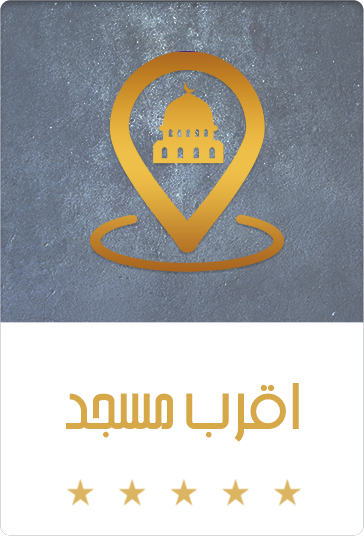
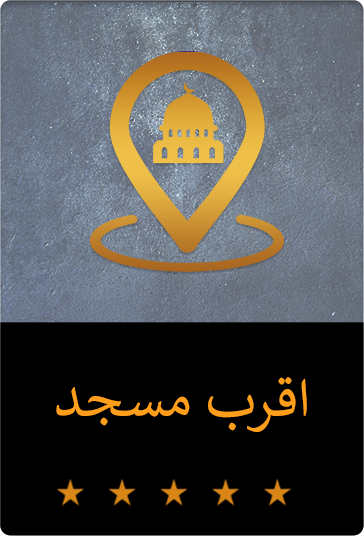
terms

diff --git a/front/css/style_en_mbc.css b/front/css/style_en_mbc.css
@@ -87,6 +87,8 @@ select:active {
   /* End Error Page */
   /* Start Profile Page */
   /* End Profile Page */
+  /* Start Terms Page */
+  /* End Terms Page */
 }
 .main_container .header {
   position: unset;
@@ -625,7 +627,7 @@ select:active {
 }
 .main_container .inner_page .poster .poster-details .outside-cover {
   margin-bottom: 2rem;
-  color: #FFF;
+  color: #efc049;
 }
 .main_container .inner_page .socail_media {
   width: 50%;
@@ -701,7 +703,7 @@ select:active {
 .main_container .inner_page .section_content .p_content {
   margin-left: 0.5rem;
   font-size: 16px;
-  color: #FFF;
+  color: #efc049;
 }
 .main_container .inner_page .section_content .p_content_2 {
   font-size: 14px;
@@ -1348,7 +1350,7 @@ select:active {
   margin: 3.5rem auto;
 }
 .main_container .profile .profile_title {
-  color: #FFF;
+  color: #efc049;
   margin-bottom: 5% !important;
 }
 .main_container .profile .profile_table table tbody tr .label-view {
@@ -1358,8 +1360,21 @@ select:active {
 }
 .main_container .profile .profile_table table tbody tr .label-view2 {
   width: 75%;
-  color: #FFF;
+  color: #efc049;
   border: 0;
+}
+.main_container .terms_page {
+  margin: 1.5rem auto;
+}
+.main_container .terms_page .terms_title {
+  color: #efc049;
+}
+.main_container .terms_page .terms_title h2 {
+  font-size: 1.25rem;
+}
+.main_container .terms_page .ul_terms {
+  font-size: 0.85rem !important;
+  color: #efc049 !important;
 }
 
 .loading-overlay {

diff --git a/front/scss/style_en_mbc.scss b/front/scss/style_en_mbc.scss
@@ -792,7 +792,7 @@ select {
 
         .outside-cover {
           margin-bottom: 2rem;
-          color: $white_color
+          color: $text_color
         }
       }
     }
@@ -885,10 +885,9 @@ select {
       }
 
       .p_content {
-        // margin-top: 4rem;
         margin-left: 0.5rem;
         font-size: 16px;
-        color: $white_color;
+        color: $text_color;
       }
 
       .p_content_2 {
@@ -1738,7 +1737,7 @@ select {
     margin: 3.5rem auto;
 
     .profile_title {
-      color: $white_color;
+      color: $text_color;
       margin-bottom: 5% !important;
     }
 
@@ -1754,7 +1753,7 @@ select {
 
             .label-view2 {
               width: 75%;
-              color: $white_color;
+              color: $text_color;
               border: 0;
             }
           }
@@ -1764,6 +1763,26 @@ select {
   }
 
   /* End Profile Page */
+
+  /* Start Terms Page */
+  .terms_page {
+    margin: 1.5rem auto;
+
+    .terms_title {
+      color: $text_color;
+      
+      h2 {
+        font-size: 1.25rem;
+      }
+    }
+
+    .ul_terms {
+      font-size: 0.85rem !important;
+      color: $text_color !important;
+    }
+  }
+
+  /* End Terms Page */
 }
 
 .loading-overlay {

diff --git a/front/css/style_en.css b/front/css/style_en.css
@@ -528,10 +528,11 @@ select:active {
   padding: 0 2rem;
 }
 .main_container .inner_page .cover img {
-  height: 55rem;
-  width: 92%;
+  height: 36.438rem;
+  width: 95%;
   margin: 0 auto;
   display: block;
+  border-radius: 0.5rem;
 }
 .main_container .inner_page .cover button {
   border: 0;
@@ -545,6 +546,10 @@ select:active {
   -moz-transform: translate(-50%, -50%);
   -ms-transform: translate(-50%, -50%);
   -o-transform: translate(-50%, -50%);
+}
+.main_container .inner_page .cover audio {
+  margin: -4% auto;
+  display: block;
 }
 .main_container .inner_page .poster {
   margin-top: 1.5rem;

diff --git a/front/scss/style_en.scss b/front/scss/style_en.scss
@@ -699,10 +699,11 @@ select {
       }
 
       img {
-        height: 55rem;
-        width: 92%;
+        height: 36.438rem;
+        width: 95%;
         margin: 0 auto;
         display: block;
+        border-radius: 0.5rem;
       }
 
       button {
@@ -717,6 +718,11 @@ select {
         -moz-transform: translate(-50%, -50%);
         -ms-transform: translate(-50%, -50%);
         -o-transform: translate(-50%, -50%);
+      }
+
+      audio {
+        margin: -4% auto;
+    display: block;
       }
     }
 

diff --git a/front/css/style_en_oman.css b/front/css/style_en_oman.css
@@ -531,7 +531,6 @@ select:active {
   padding: 0 2rem;
 }
 .main_container .inner_page .cover img {
-  height: 36.438rem;
   width: 92%;
   margin: 0 auto;
   display: block;
@@ -1694,7 +1693,6 @@ select:active {
   }
   .main_container .inner_page .cover img {
     width: 100%;
-    height: 22.5rem;
   }
   .main_container .inner_page .cover button {
     top: 45%;

diff --git a/front/scss/style_en_oman.scss b/front/scss/style_en_oman.scss
@@ -700,7 +700,7 @@ select {
       }
 
       img {
-        height: 36.438rem;
+        // height: 36.438rem;
         width: 92%;
         margin: 0 auto;
         display: block;
@@ -2343,7 +2343,7 @@ select {
 
         img {
           width: 100%;
-          height: 22.5rem;
+          // height: 22.5rem;
         }
 
         button {

diff --git a/resources/views/front/terms.blade.php b/resources/views/front/terms.blade.php
@@ -2,25 +2,26 @@
 @section('page_title') @lang('front.terms') @endsection
 @section('content')
 
+<section class="terms_page">
+  @if(request()->get('OpID') == mbc)
+  <div class="col-md-12 col-lg-12 col-xl-12 col-12 no_padding close_nav">
+    @else
+    <div class="col-md-12 col-lg-12 col-xl-8 col-12 p-0 no_padding close_nav">
+      @endif
+      <div class="terms_title">
+        <h2 class="text-center pt-2">@lang('front.terms')</h2>
+      </div>
 
-@if(request()->get('OpID') == mbc)
-<div class="col-md-12 col-lg-12 col-xl-12 col-12 no_padding close_nav">
-@else
-<div class="col-md-12 col-lg-12 col-xl-8 col-12 p-0 no_padding close_nav">
-@endif
-  <div>
-    <h2 style="color: white;text-align: center; padding-top: 2%;color: #efc049;">@lang('front.terms')</h2>
-  </div>
-  @if (getCode() == 'ar')
-  <div style="padding: 4%;">
-    <h1>{!! DB::table('settings')->where('key','like','%terms_ar%')->first()->value !!}</h1>
-  </div>
+      @if (getCode() == 'ar')
+      <div style="padding: 4%;">
+        <h1 class="ul_terms">{!! DB::table('settings')->where('key','like','%terms_ar%')->first()->value !!}</h1>
+      </div>
 
-  @else
-  <div style="padding: 4%;">
-    <h1>{!! DB::table('settings')->where('key','like','%terms_en%')->first()->value !!}</h1>
-  </div>
-  @endif
+      @else
+      <div style="padding: 4%;">
+        <h1 class="ul_terms">{!! DB::table('settings')->where('key','like','%terms_en%')->first()->value !!}</h1>
+      </div>
+      @endif
+</section>
 
-
-  @stop
+@stop

diff --git a/resources/views/front/f_q.blade.php b/resources/views/front/f_q.blade.php
@@ -2,25 +2,26 @@
 @section('page_title') @lang('front.faq') @endsection
 @section('content')
 
+<section class="terms_page">
+  @if(request()->get('OpID') == mbc)
+  <div class="col-md-12 col-lg-12 col-xl-12 col-12 no_padding close_nav">
+    @else
+    <div class="col-md-12 col-lg-12 col-xl-8 col-12 p-0 no_padding close_nav">
+      @endif
+      <div class="terms_title">
+        <h2 class="text-center pt-2">@lang('front.faq')</h2>
+      </div>
 
-@if(request()->get('OpID') == mbc)
-<div class="col-md-12 col-lg-12 col-xl-12 col-12 no_padding close_nav">
-@else
-<div class="col-md-12 col-lg-12 col-xl-8 col-12 p-0 no_padding close_nav">
-@endif
-<div>
-    <h2 style="color: white;text-align: center; padding-top: 2%;color: #efc049;">@lang('front.faq')</h2>
-  </div>
-  @if (getCode() == 'ar')
-  <div style="padding: 4%;">
-    <h1>{!! DB::table('settings')->where('key','like','%f_q_ar%')->first()->value !!}</h1>
-  </div>
+      @if (getCode() == 'ar')
+      <div style="padding: 4%;">
+        <h1 class="ul_terms">{!! DB::table('settings')->where('key','like','%f_q_ar%')->first()->value !!}</h1>
+      </div>
 
-  @else
-  <div style="padding: 4%;">
-    <h1>{!! DB::table('settings')->where('key','like','%f_q_en%')->first()->value !!}</h1>
-  </div>
-  @endif
+      @else
+      <div style="padding: 4%;">
+        <h1 class="ul_terms">{!! DB::table('settings')->where('key','like','%f_q_en%')->first()->value !!}</h1>
+      </div>
+      @endif
+</section>
 
-
-  @stop
+@stop

diff --git a/resources/views/front/inner.blade.php b/resources/views/front/inner.blade.php
@@ -13,14 +13,7 @@ $src = url('front\images\Cutting\Contnent_Page\004.png');
 }
 @endphp
 <style>
-  @media (max-width: 374.9px) and (min-width: 360px){
-    .main_container .inner_page .cover img {
-      width: 100%;
-      height: unset;
-    }
-  }
   .main_container .inner_page .cover img {
-    height: 32rem;
     width: 92%;
     opacity: 0.7;
   }
@@ -49,7 +42,7 @@ if (session()->get('applocale') == 'ar') {
             </video>
             @endif
             @if($content->type == 2)
-                <img src="{{$src}}" alt="Video Cover" style="opacity: 1 !important;height:auto">
+                <img src="{{$src}}" alt="Video Cover" style="opacity: 1 !important;">
                 <audio src="{{url($content->video)}}" controls style="width: 94%;" controlsList="nodownload"></audio>
             @endif
             @if($content->type == 3)

diff --git a/resources/views/front/inner_confirm.blade.php b/resources/views/front/inner_confirm.blade.php
@@ -123,7 +123,7 @@ $src = url('front\images\Cutting\Contnent_Page\004.png');
           $src = url('front\images\Cutting\Contnent_Page\004.png');
           }
           @endphp
-          <img class="w-100 h-100" src="{{$src}}"   style="opacity: 1 !important;height:auto" class="image_inner" alt="Card image cap">
+          <img class="w-100 h-100" src="{{$src}}"   style="opacity: 1 !important;" class="image_inner" alt="Card image cap">
         </div>
 
         <div class="col-md-8 col-lg-8 col-xl-10 col-8 p-0">
